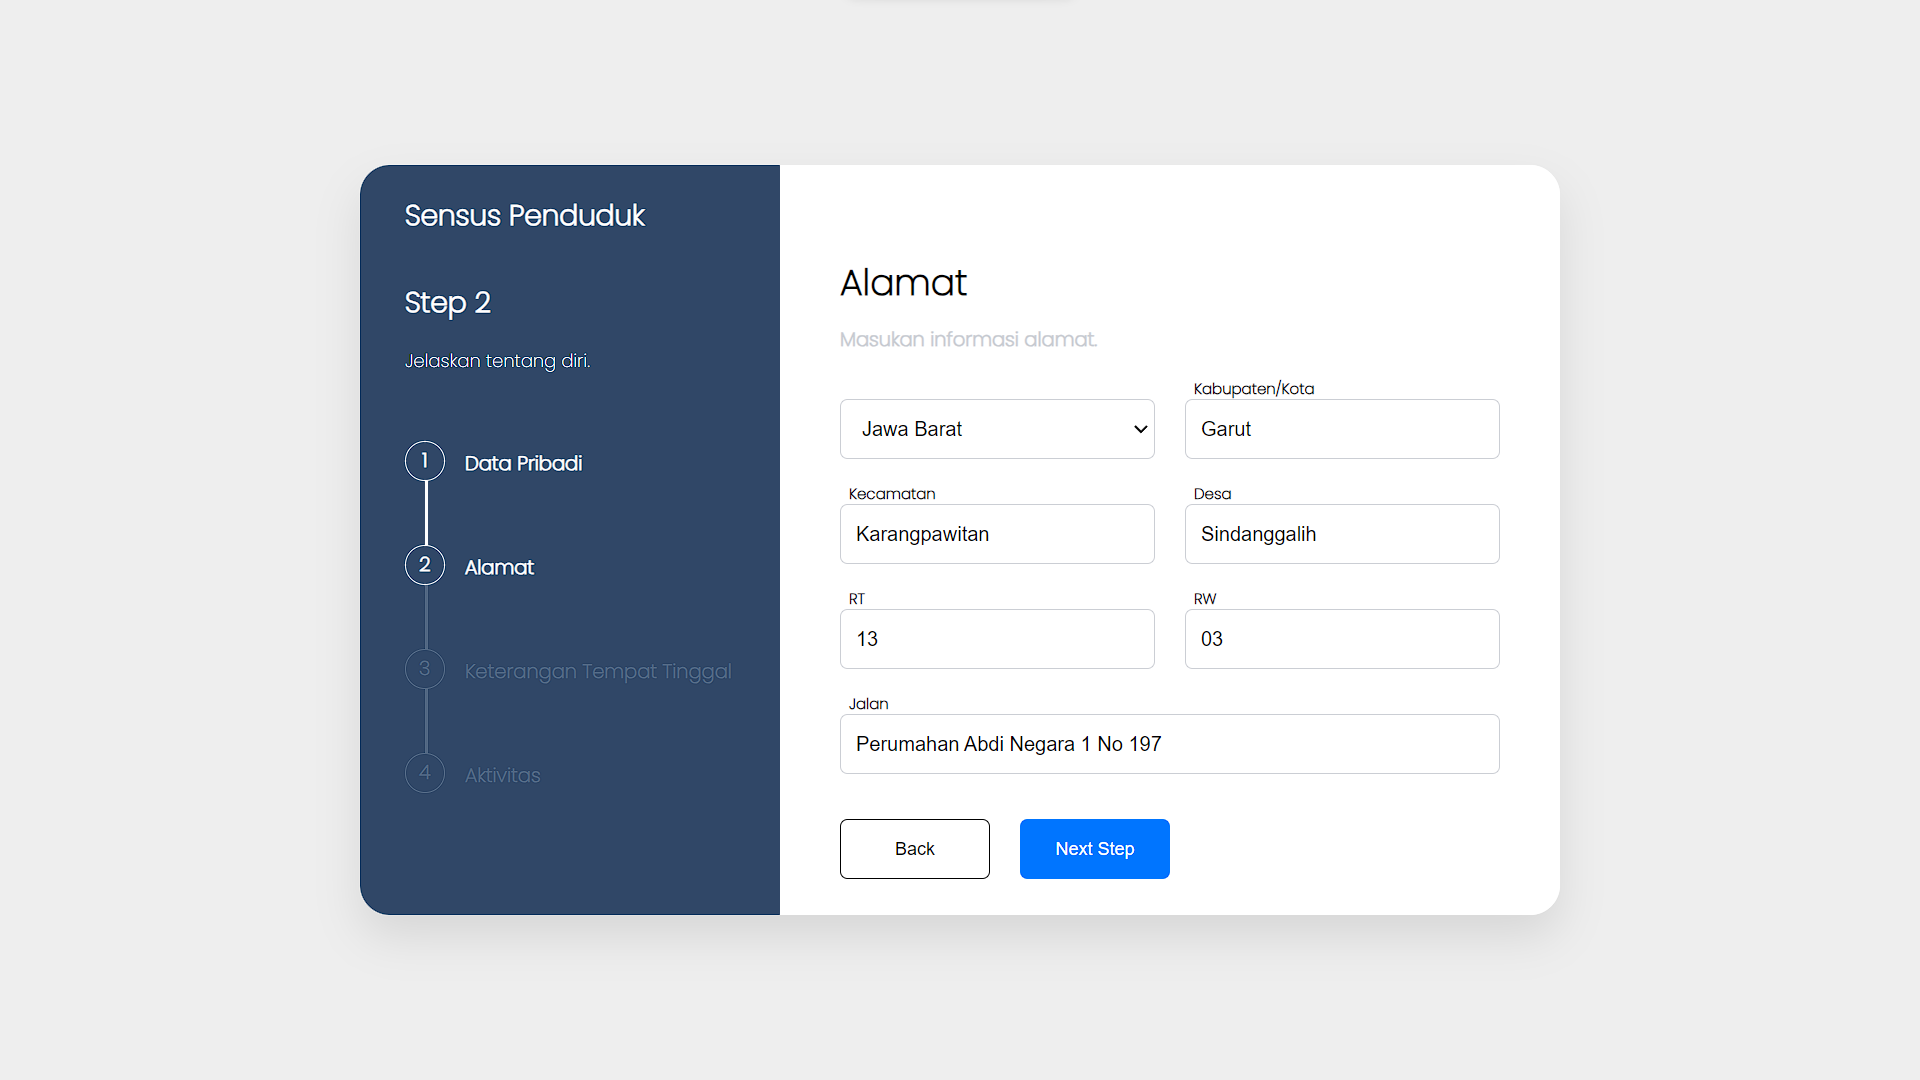
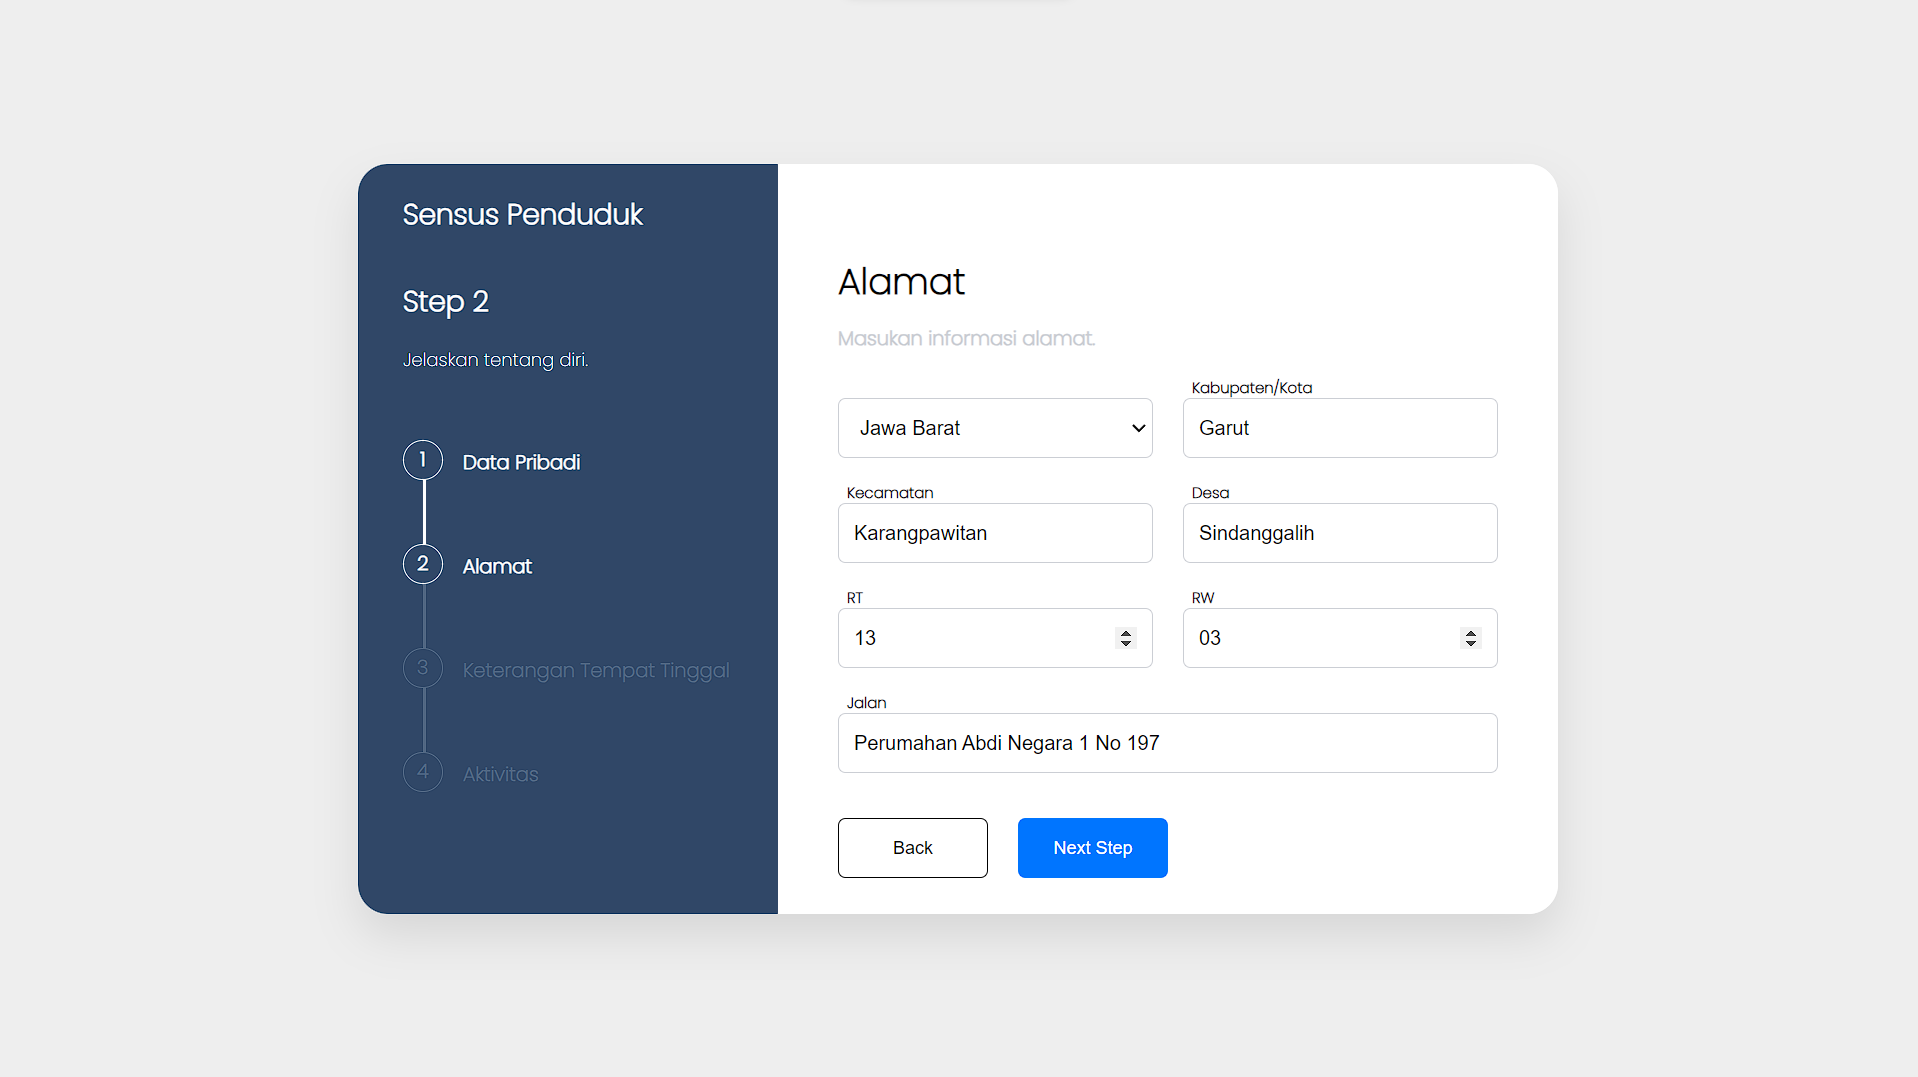
refactor(css): membatasi css untuk input kecuali input berjenis radio

diff --git a/style.css b/style.css
@@ -162,7 +162,9 @@
   position: relative;
 }
 
-input {
+input[type="text"],
+input[type="date"],
+input[type="number"] {
   width: 100%;
   height: 40px;
   border: none;
